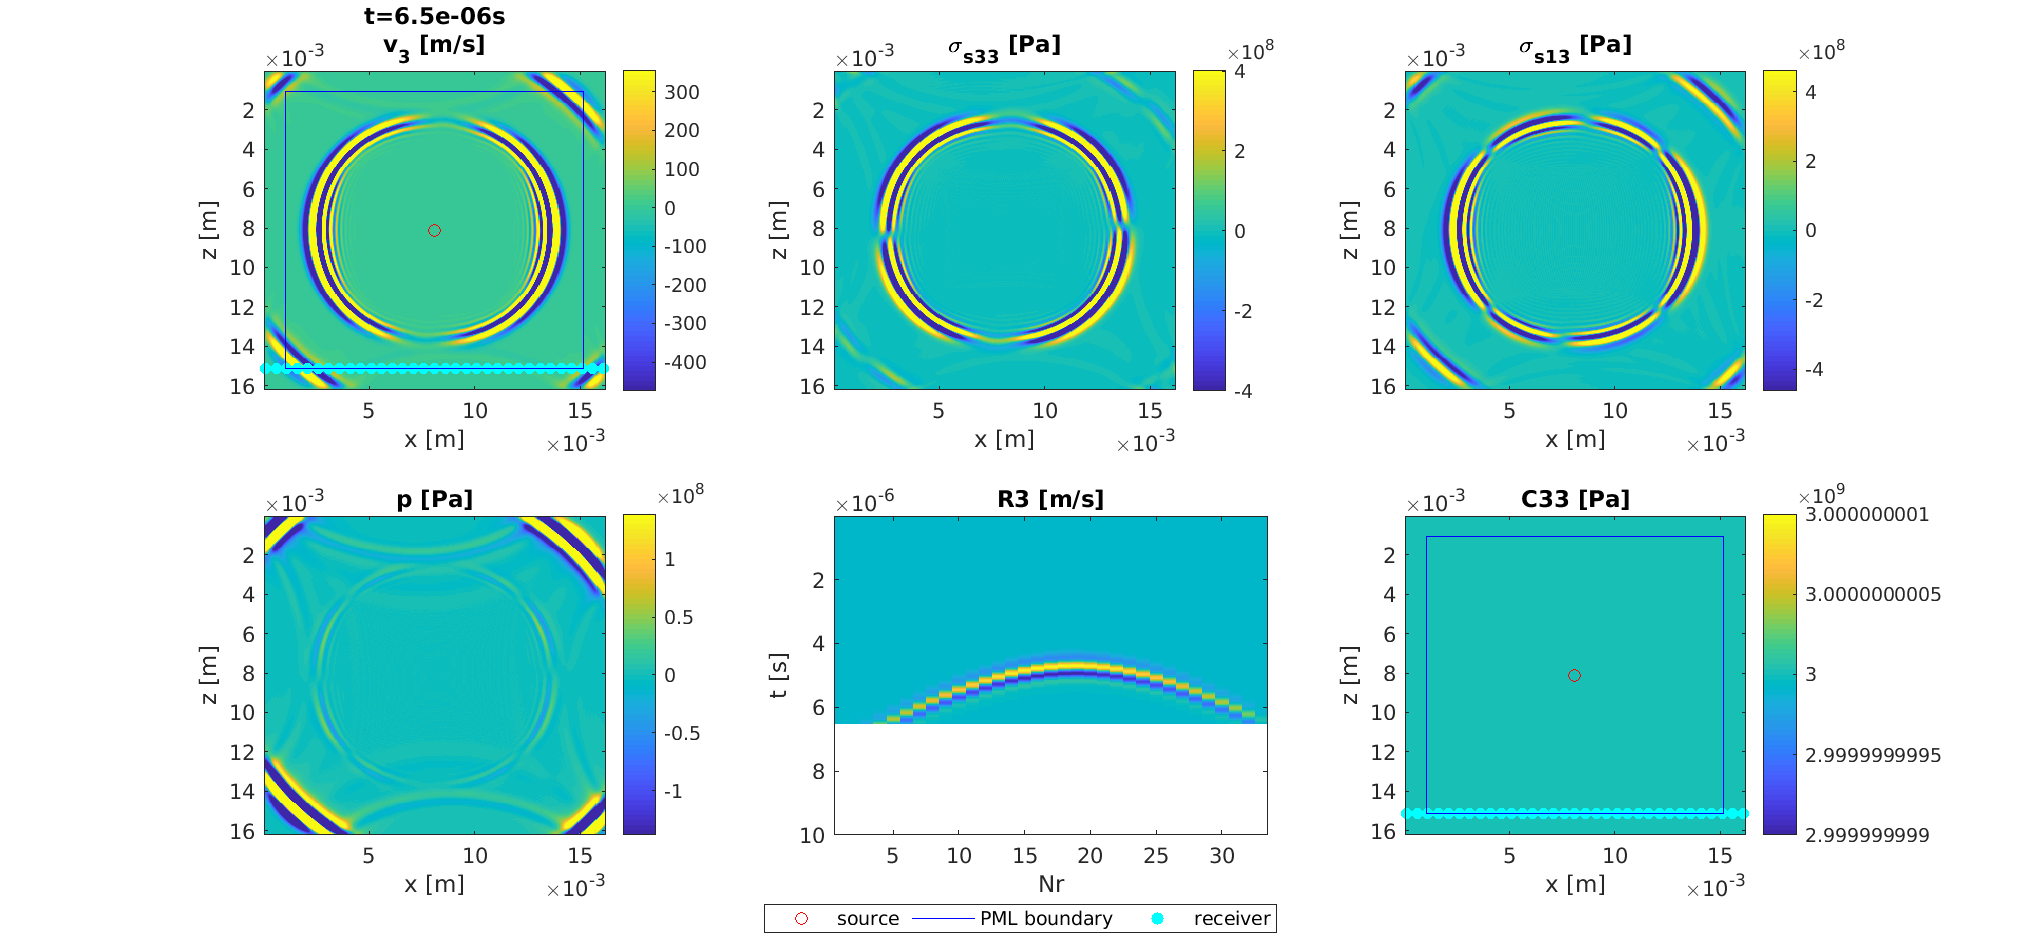
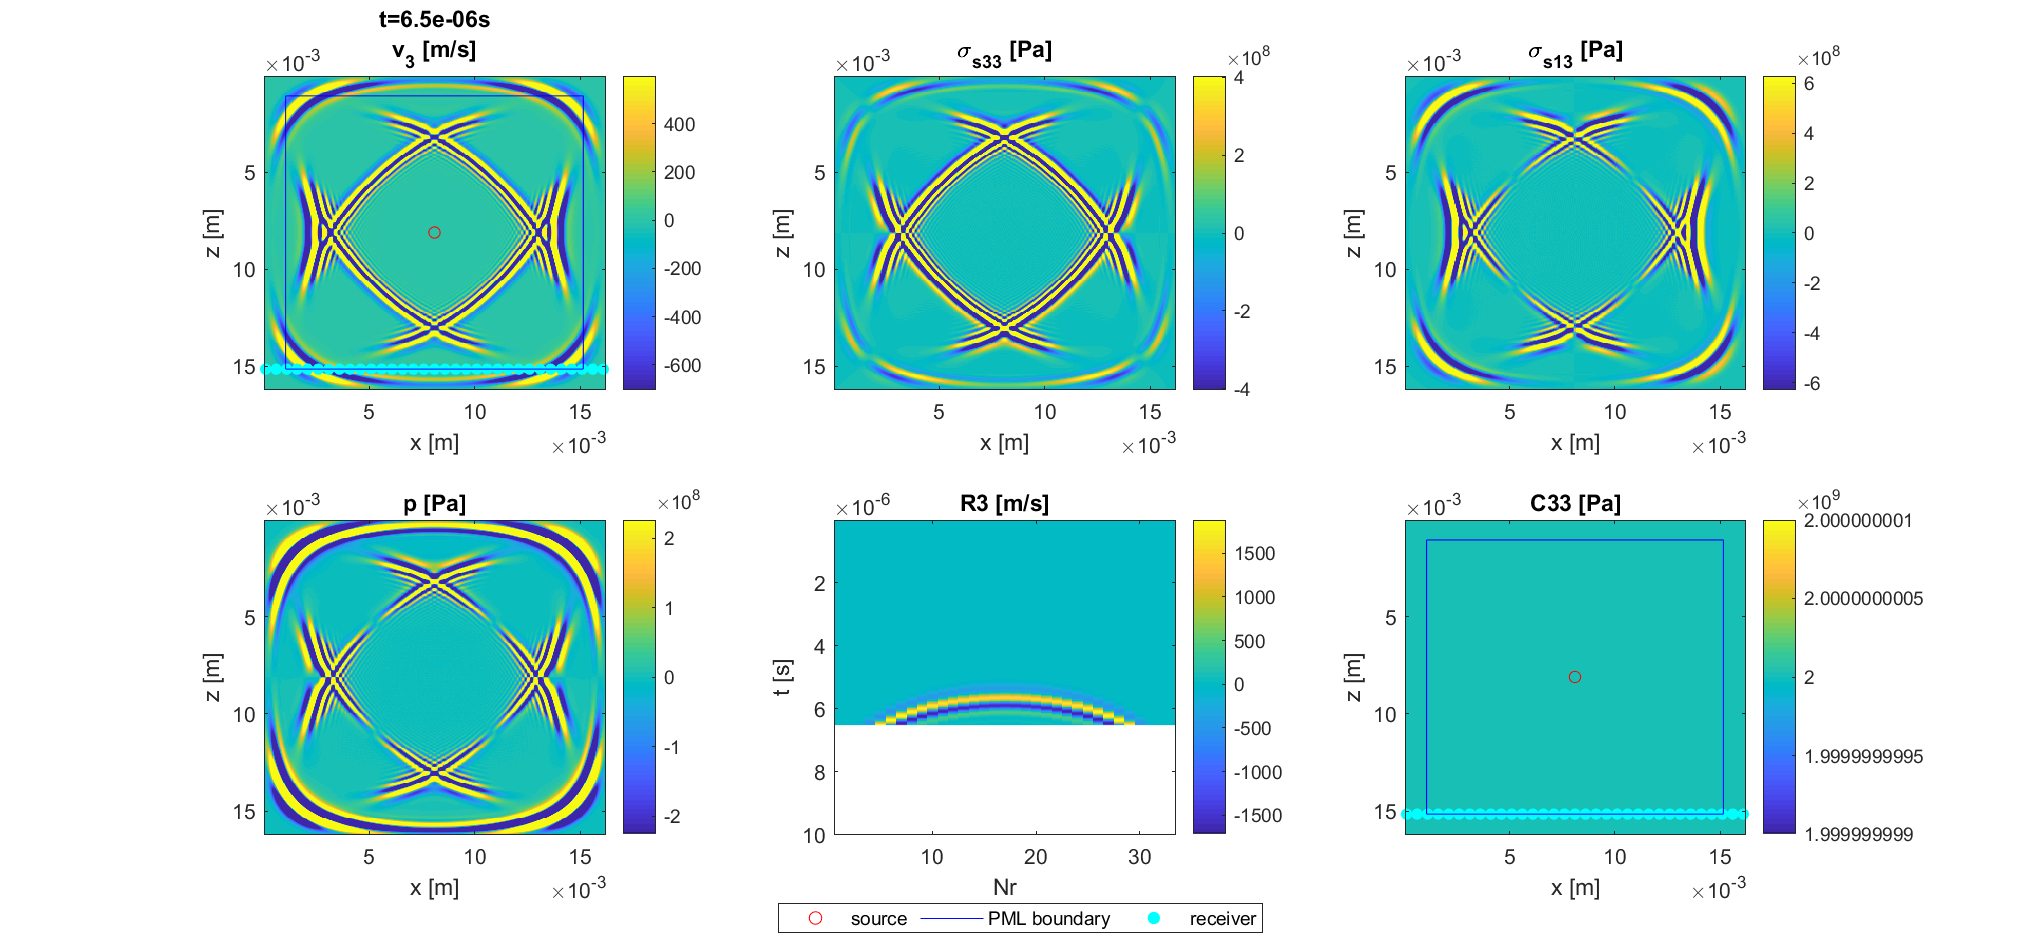
new simu

diff --git a/ani_homogenous.m b/ani_homogenous.m
@@ -65,11 +65,11 @@ mu=10^9;
 lambda=10^9;
 
 % assign solid with its stiffness
-C11(solid)=lambda+2*mu;
+C11(solid)=lambda+2*mu-mu;
 C13(solid)=lambda;
-C15(solid)=.2*lambda;
-C33(solid)=lambda+2*mu;
-C35(solid)=.2*lambda;
+C15(solid)=0*lambda;
+C33(solid)=lambda+2*mu-mu;
+C35(solid)=0*lambda;
 C55(solid)=mu;
 rho(solid)=10^3;
 
